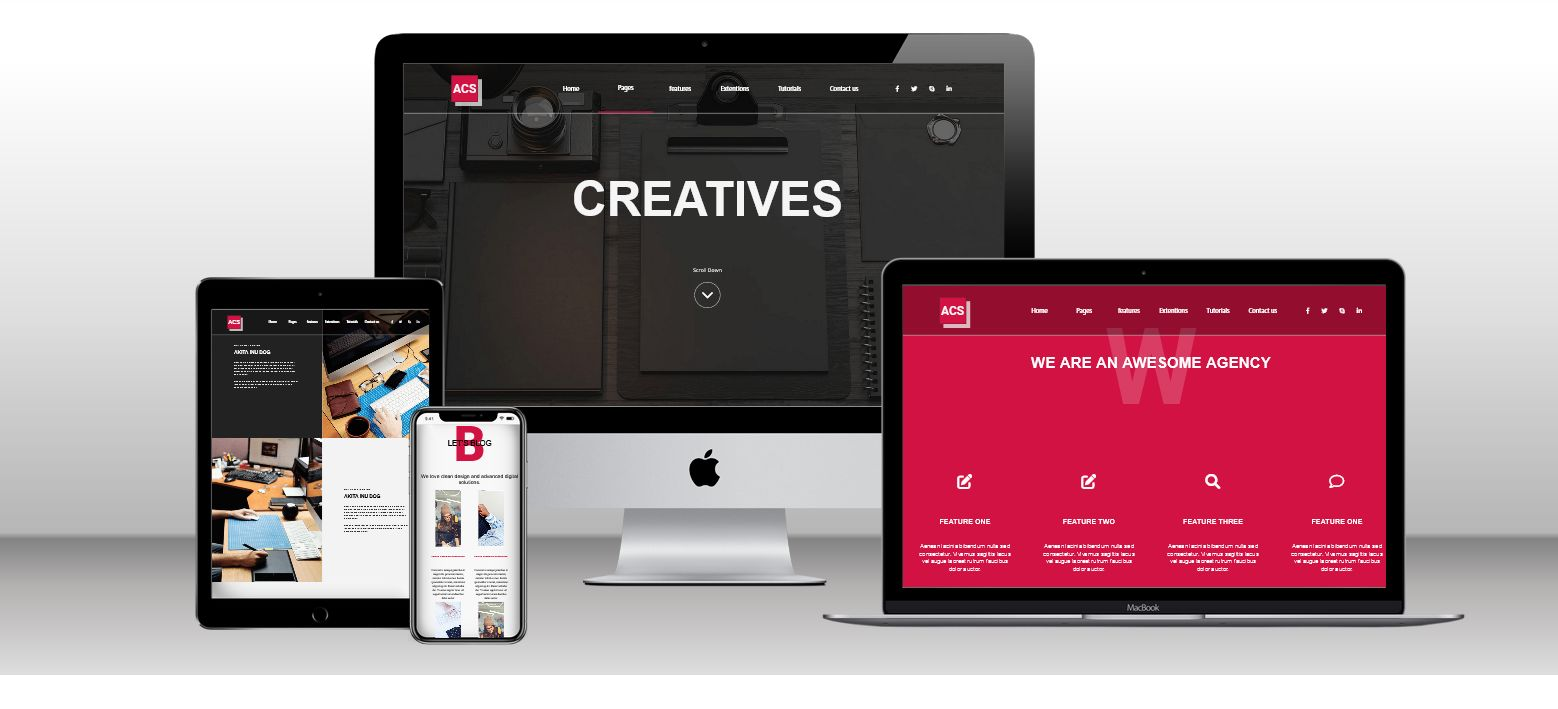
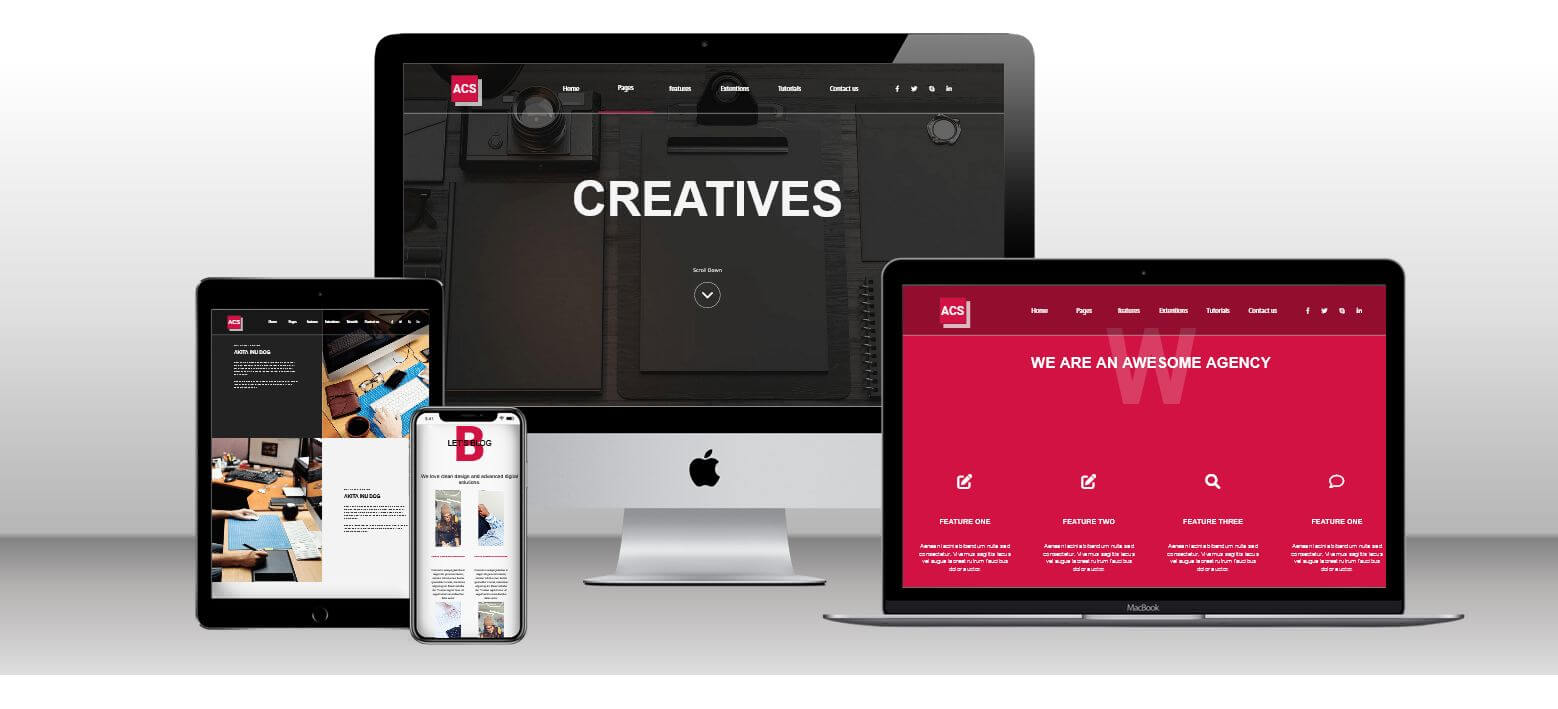
compression des images

diff --git a/index.html b/index.html
@@ -187,22 +187,22 @@
                     <div class="slideshow">
                         <div class="boxslideshow">
                             <div class="slide">
-                                <img id="allojyve" class="slide-img " src= "./assets/img/carousel/allojyveScreen.jpg">
+                                <img id="allojyve" class="slide-img" src= "./assets/img/carousel/allojyveScreen.jpg">
                             </div>
                             <div class="slide">
-                                <img id="techNews" class="slide-img " src= "./assets/img/carousel/techNewsScreen.png">
+                                <img id="techNews" class="slide-img" src= "./assets/img/carousel/techNewsScreen.png">
                             </div>
                             <div class="slide">
-                                <img id="creatives" class="slide-img " src= "./assets/img/carousel/creativesScreen.jpg">
+                                <img id="creatives" class="slide-img" src= "./assets/img/carousel/creativesScreen.jpg">
                             </div>
                             <div class="slide">
-                                <img id="maquette"   class="slide-img " src= "./assets/img/carousel/maquetteScreen.png">
+                                <img id="maquette"   class="slide-img" src= "./assets/img/carousel/maquetteScreen.png">
                             </div>
                             <div class="slide">
-                                <img id="capgemen" class="slide-img " src= "./assets/img/carousel/capgementScreen.jpg">
+                                <img id="capgemen" class="slide-img" src= "./assets/img/carousel/capgementScreen.jpg">
                             </div>
                             <div class="slide">
-                                <img id="popcode" class="slide-img " src= "./assets/img/carousel/popcodeScreen.jpg">
+                                <img id="popcode" class="slide-img" src= "./assets/img/carousel/popcodeScreen.jpg">
                             </div>
                             <!-- <div class="slide">
                               <img class="slide-img" src= "./assets/img/portFolio.jpg">

diff --git a/assets/js/app.js b/assets/js/app.js
@@ -56,8 +56,8 @@ document.addEventListener('click', ()=>{
     fetch('assets/js/description.json').then(responce => responce.json().then(responce => {
         for (let i = 0; i < responce.listeProjets.projets.length; i++) {
             // console.log(responce.listeProjets.projets[i].description);
-            let test = responce.listeProjets.projets[i].name;
-            if (target.toLowerCase() === test.replace('é','e').toLowerCase()) {
+            let listejson = responce.listeProjets.projets[i].name;
+            if (target.toLowerCase() === listejson.replace('é','e').toLowerCase()) {
                 document.querySelector('.titleModal').textContent = responce.listeProjets.projets[i].name;
                 document.querySelector('.projetDesc').textContent = responce.listeProjets.projets[i].description;
                 document.querySelector('.collaboration').textContent = responce.listeProjets.projets[i].collaboration;
@@ -81,7 +81,6 @@ boxslideshow.addEventListener('click', function(e){
     modalContent(e.target.id);
 });
 /*//////////////////////////////////////////////////////// close ModalDesc*/////////////////////////////////*/
-
 document.getElementsByClassName('cross')[0].addEventListener('click' , function(){
     document.getElementById('boxModalDesc').classList.add('none');
   });
